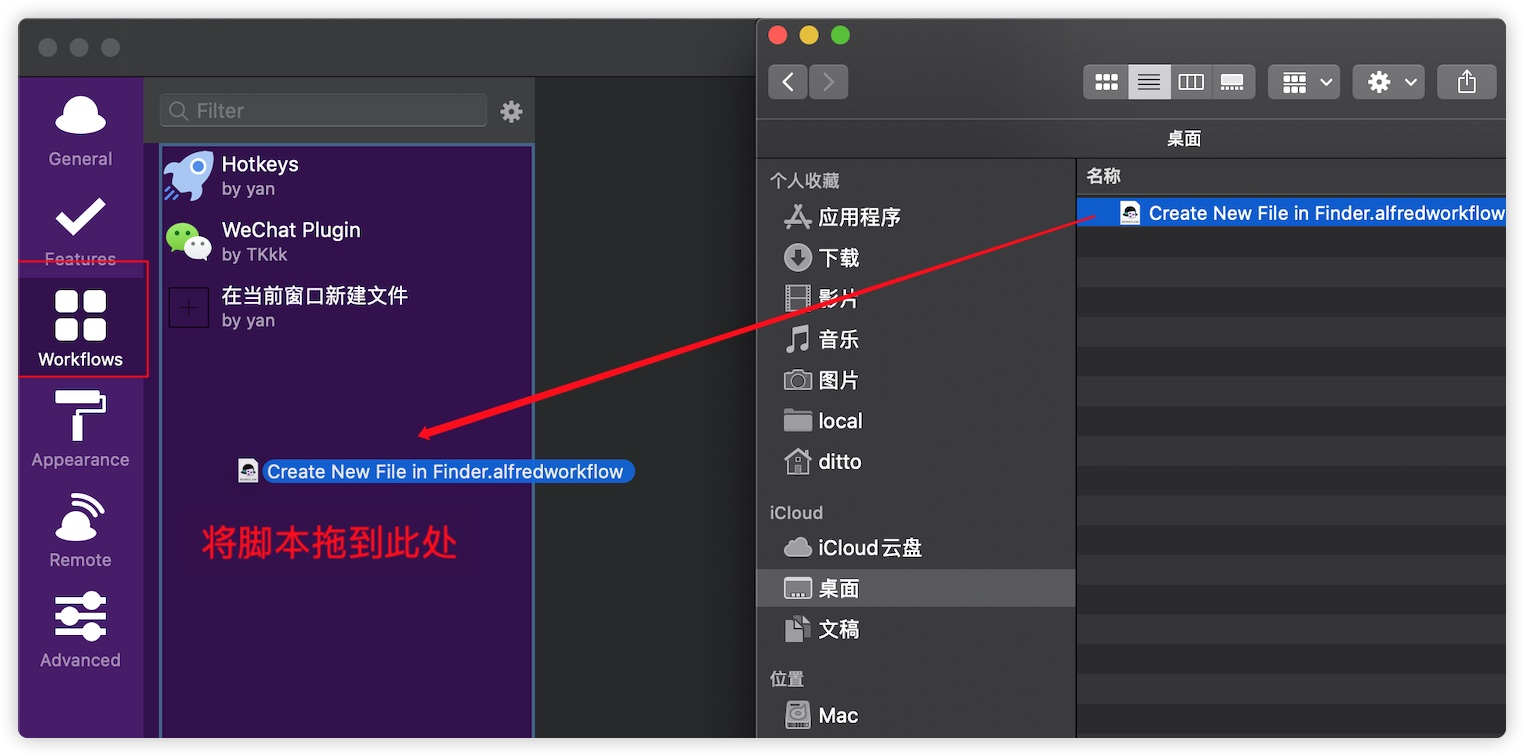
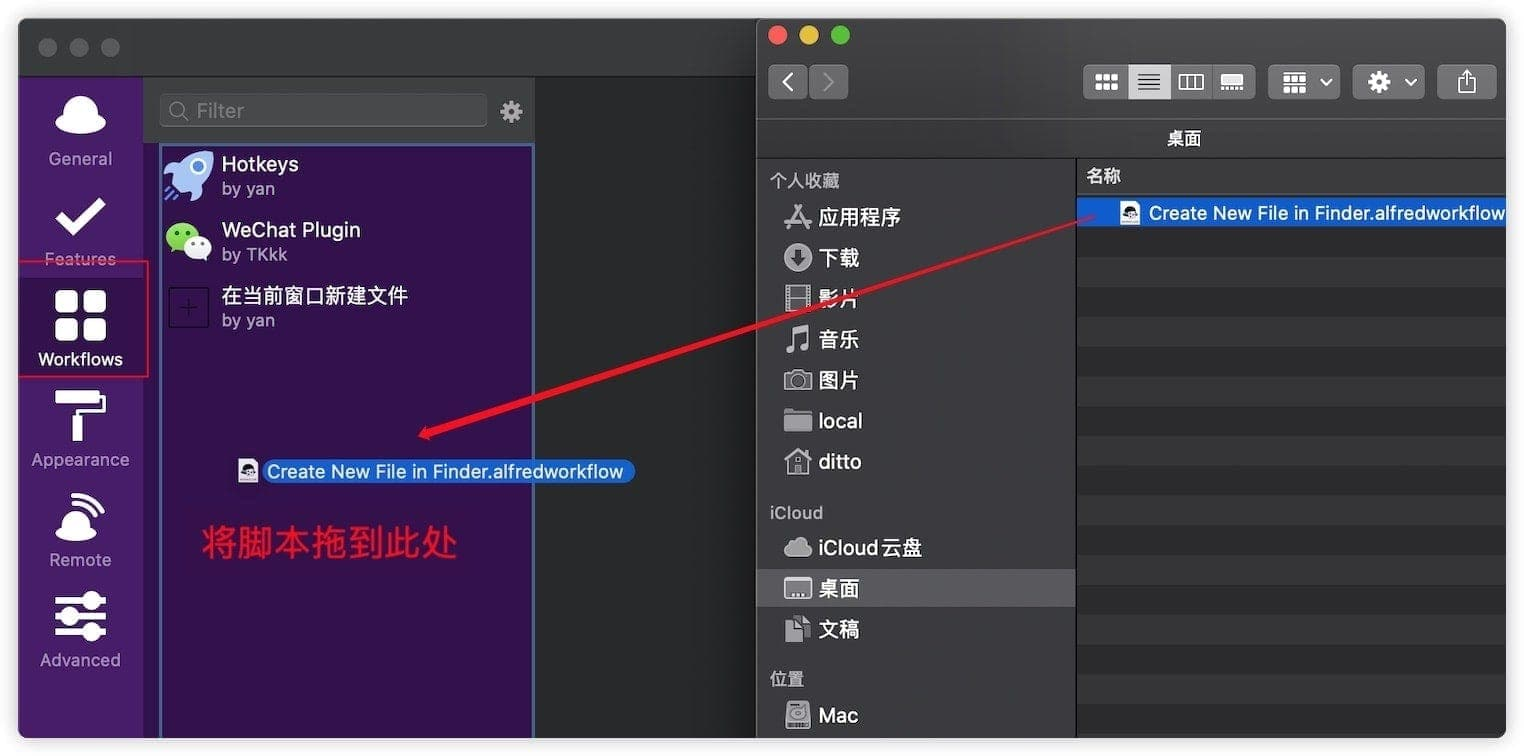
图片压缩

diff --git a/README.md b/README.md
@@ -1,5 +1,3 @@
-
-
 # 苹果 Mac 在当前窗口新建文件
 
 Windows、Linux-Centos7等系统，都可以很方便的用鼠标右键在当前目录新建文件、打开命令窗口。
@@ -20,9 +18,9 @@ Windows、Linux-Centos7等系统，都可以很方便的用鼠标右键在当前
 
 ![install](README.assets/install.jpg)
 
-![ hotkey](README.assets/hotkey.jpg)
+> 快捷键可以设置为：alt + f（单手操作方便，且见名知意 f  => File）
 
-  如快捷键可以设置为：alt + f（单手操作方便，且见名知意——File）
+![ hotkey](README.assets/hotkey.jpg)
 
 
 
@@ -30,16 +28,23 @@ Windows、Linux-Centos7等系统，都可以很方便的用鼠标右键在当前
 
 按下设置的快捷键后
 
-- 第一种：直接输入文件名，默认生成txt格式空文件。
+- 第一种：直接输入文件名，默认生成txt格式空文件
 
+    > 例：
+    >
+    > 输入：产品说明
+    >
+    > 识别为：产品说明.txt
 
-- 第二种：指定格式：输入要使用的文件名和扩展名(如：文档.txt,)。
+- 第二种：指定文件扩展名，输入要使用的文件名和扩展名（如：文档.txt）
 
     为避免来回切换输入法，句号“。”自动识别为扩展分隔符"." 
 
     > 例：
-    > 		输入：产品说明。doc
-    > 		将自动识别为：产品说明.doc
+    >
+    > 输入：产品说明。doc
+    >
+    > 识别为：产品说明.doc
 
 - 第三种：如果不输入任何内容，直接按下回车，默认在当前目录创建：新建文件.txt
 
@@ -58,7 +63,7 @@ Windows、Linux-Centos7等系统，都可以很方便的用鼠标右键在当前
 
 
 
-- 指定格式
+- 指定文件扩展名
 
 ![避免来回切换输入法，可输入句号](README.assets/避免来回切换输入法，可输入句号.jpg)
 
